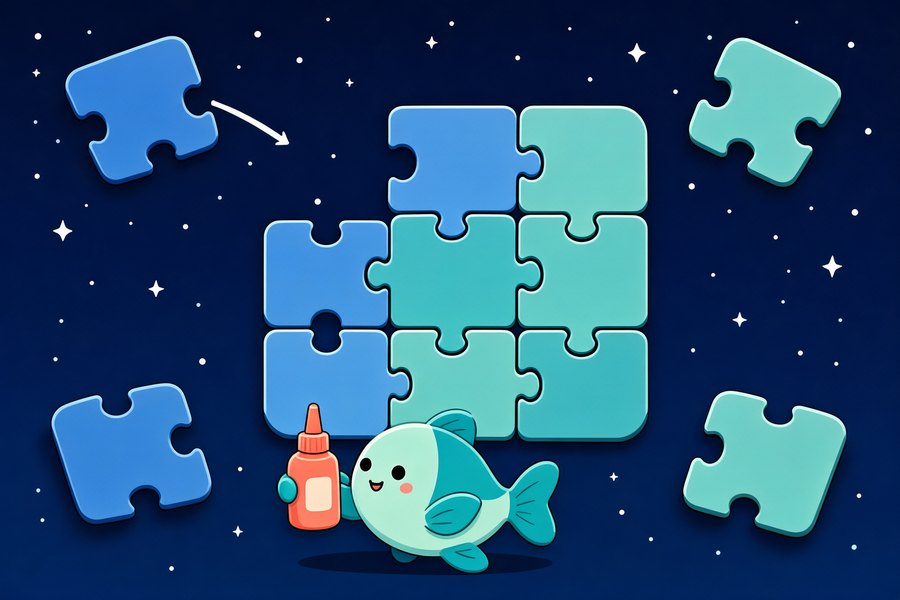
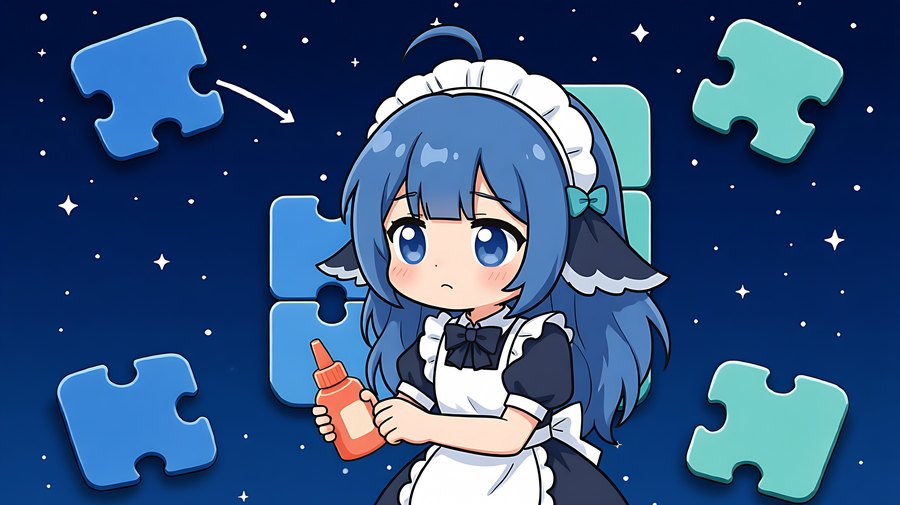
docs: 六张插画主角换成社区形象（图生图，构图与梗保留）
用 Agnes 的 img2img，把每张图里的圆形鱼换成蓝发女仆角色：
· 黑框 —— 她坐在桌前盯着全黑显示器，三个问号
· 键盘 —— 她按着键盘，键帽没飞（这张的梗丢了）
· 套娃 —— 她把文件夹套娃挡在身后，一脸无奈
· 风扇 —— 风扇把她的头发吹起来，手里还捏着纸
· 拼图 —— 她拿着胶水瓶，角块飞走了
· 备份 —— 她拿网追长腿的文件夹，戴口罩那只跑得最快

原版（鱼）留在 fish-version 里没进仓库。

diff --git a/docs/STORY.md b/docs/STORY.md
@@ -1,6 +1,6 @@
 # 那一夜，六个坑
 
-> 六张插画，六个真正的错误。作者是一条鱼。
+> 六张插画，六个真正的错误。作者是那个蓝头发的。
 
 <p align="center">
   <img src="illustrations/07-avatar.png" width="200" alt="社区画的形象">
